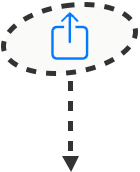
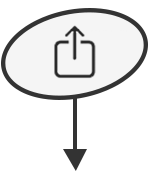
UI fix

Changed region(s): [[0.0, 0.0, 1.0, 1.0], [0.1714, 0.3779, 0.2571, 0.436], [0.7429, 0.3198, 0.8286, 0.3779]]

diff --git a/assets/js/add-to-homescreen.js b/assets/js/add-to-homescreen.js
@@ -1,0 +1,95 @@
+/**
+ * Add-to-homescreen prompt for mobile browsers.
+ * Shows a prompt for Android install support and an iOS instruction panel.
+ */
+(function () {
+    'use strict';
+
+    let deferredPrompt = null;
+
+    // Cache the two UI containers we toggle from this script.
+    const homescreen = document.getElementById('homescreen');
+    const arrow = document.getElementById('arrow');
+
+    // Detect the current device platform.
+    const isIos = () => {
+        return /iphone|ipad|ipod/i.test(navigator.userAgent);
+    };
+
+    const isAndroid = () => {
+        return /android/i.test(navigator.userAgent);
+    };
+
+    const isStandalone = () => {
+        return (
+            window.matchMedia('(display-mode: standalone)').matches ||
+            window.navigator.standalone === true
+        );
+    };
+
+    // Keep the Android install prompt event so we can trigger it later.
+    window.addEventListener('beforeinstallprompt', function (event) {
+        event.preventDefault();
+        deferredPrompt = event;
+
+        // Show the install banner when native install is available.
+        if (isAndroid() && !isStandalone() && homescreen) {
+            homescreen.style.display = 'block';
+        }
+    });
+
+    // iOS does not support beforeinstallprompt, so show the hint immediately.
+    if (isIos() && !isStandalone() && homescreen) {
+        homescreen.style.display = 'block';
+    }
+
+    // Fallback for Android when the install prompt is not yet available.
+    if (isAndroid() && !isStandalone() && homescreen && !deferredPrompt) {
+        homescreen.style.display = 'block';
+    }
+
+    // Trigger the native install flow when possible, otherwise show the iOS guide.
+    window.installApp = async function () {
+        if (homescreen) {
+            homescreen.style.display = 'none';
+        }
+
+        if (deferredPrompt) {
+            deferredPrompt.prompt();
+
+            const choiceResult = await deferredPrompt.userChoice;
+
+            if (choiceResult.outcome === 'accepted') {
+                console.log('LOOPIS installerades.');
+            }
+
+            deferredPrompt = null;
+            return;
+        }
+
+        // No native install prompt: reveal the iOS help arrow panel.
+        if (arrow) {
+            arrow.style.display = 'flex';
+        }
+    };
+
+    // Hide the iOS help arrow panel.
+    window.hideArrow = function () {
+        if (arrow) {
+            arrow.style.display = 'none';
+        }
+    };
+
+    // Once the app is installed, clear the install banner and reset state.
+    window.addEventListener('appinstalled', function () {
+        if (homescreen) {
+            homescreen.style.display = 'none';
+        }
+
+        if (arrow) {
+            arrow.style.display = 'none';
+        }
+
+        deferredPrompt = null;
+    });
+})();

diff --git a/includes/output/front-page/add-to-homescreen.php b/includes/output/front-page/add-to-homescreen.php
@@ -1,6 +1,7 @@
 <?php
 /**
- * Add to homescreen prompt for iOS devices.
+ * Add-to-homescreen prompt for mobile browsers.
+ * 
  * Included in front-page.php for logged-in users
  */
 
@@ -9,117 +10,27 @@ if (!defined('ABSPATH')) {
 }
 ?>
 <div id="homescreen"
-     style="display: none; position: fixed; height: 30px; width: 100%;
+     style="display: none; position: fixed; height: 35px; width: 100%;
             bottom: 80px; text-align: center; background-color: #fff;
-            border: 1px solid #e5e5e5; border-radius: 0; padding: 5px;
-            z-index: 9998;">
+            border-top: 1px solid #e5e5e5; padding: 5px; z-index: 9998;">
 
-    <p class="small">
-        💡 <a href="#" onclick="installApp(); return false;"> Lägg LOOPIS på hemskärmen</a> så liknar det en app!
-    </p>
+    <p class="small">💡 <a href="#" onclick="installApp(); return false;"> Lägg LOOPIS på hemskärmen</a> så liknar det en app!</p>
 </div>
 
 <div id="arrow"
-     style="display: none; position: fixed; bottom: 0; left: 50%;
+    style="display: none; position: fixed; bottom: 0; left: 50%;
             transform: translateX(-50%); z-index: 9999;
-            text-align: center; background: #fff; padding: 15px;
+          text-align: left; background-color: #fff; padding: 15px;
+          flex-direction: row; align-items: center; gap: 15px;
             width: 100%; box-sizing: border-box;">
 
-    <p>
-        Tryck på dela-knappen i <b>Safari</b> och scrolla ner till <b>Lägg till på hemskärmen</b>
-    </p>
-
-    <img
-        style="width: 72px;"
-        src="<?php echo get_template_directory_uri(); ?>/assets/img/homescreen-iphone.png"
-        alt="Lägg till på hemskärmen"
-    />
-
-    <br>
-
-    <a href="#" onclick="hideArrow(); return false;">
-        <i class="fas fa-times"></i> Stäng
-    </a>
+    <div style="flex: 1;">
+        <h5>Instruktion för iPhone</h5>
+        <hr>
+        <p>Tryck på <b>Dela</b> i <b>Safari</b> och scrolla ner till<br><b><i class="far fa-plus-square"></i>Lägg till på hemskärmen</b></p>
+        <p><a href="#" onclick="hideArrow(); return false;"><i class="fas fa-times"></i>Stäng</a></p>
+    </div>
+    <img style="width: 85px;" src="<?php echo get_template_directory_uri(); ?>/assets/img/homescreen-iphone.png" alt="Lägg till på hemskärmen"/>
 </div>
 
-<script>
-(function () {
-    let deferredPrompt = null;
-
-    const homescreen = document.getElementById('homescreen');
-    const arrow = document.getElementById('arrow');
-
-    const isIos = () => {
-        return /iphone|ipad|ipod/i.test(navigator.userAgent);
-    };
-
-    const isAndroid = () => {
-        return /android/i.test(navigator.userAgent);
-    };
-
-    const isStandalone = () => {
-        return (
-            window.matchMedia('(display-mode: standalone)').matches ||
-            window.navigator.standalone === true
-        );
-    };
-
-    const isMobile = () => {
-        return isIos() || isAndroid();
-    };
-
-    window.addEventListener('beforeinstallprompt', function (event) {
-        event.preventDefault();
-        deferredPrompt = event;
-
-        if (isAndroid() && !isStandalone() && homescreen) {
-            homescreen.style.display = 'block';
-        }
-    });
-
-    if (isIos() && !isStandalone() && homescreen) {
-        homescreen.style.display = 'block';
-    }
-
-    if (isAndroid() && !isStandalone() && homescreen && !deferredPrompt) {
-        homescreen.style.display = 'block';
-    }
-
-    window.installApp = async function () {
-        if (homescreen) {
-            homescreen.style.display = 'none';
-        }
-
-        if (deferredPrompt) {
-            deferredPrompt.prompt();
-
-            const choiceResult = await deferredPrompt.userChoice;
-
-            if (choiceResult.outcome === 'accepted') {
-                console.log('LOOPIS installerades.');
-            }
-
-            deferredPrompt = null;
-            return;
-        }
-
-        if (arrow) {
-            arrow.style.display = 'block';
-        }
-    };
-
-    window.hideArrow = function () {
-        if (arrow) {
-            arrow.style.display = 'none';
-        }
-    };
-
-    window.addEventListener('appinstalled', function () {
-        if (homescreen) {
-            homescreen.style.display = 'none';
-        }
-
-        deferredPrompt = null;
-    });
-})();
-</script>
+<script src="<?php echo esc_url(get_template_directory_uri() . '/assets/js/add-to-homescreen.js'); ?>"></script>
